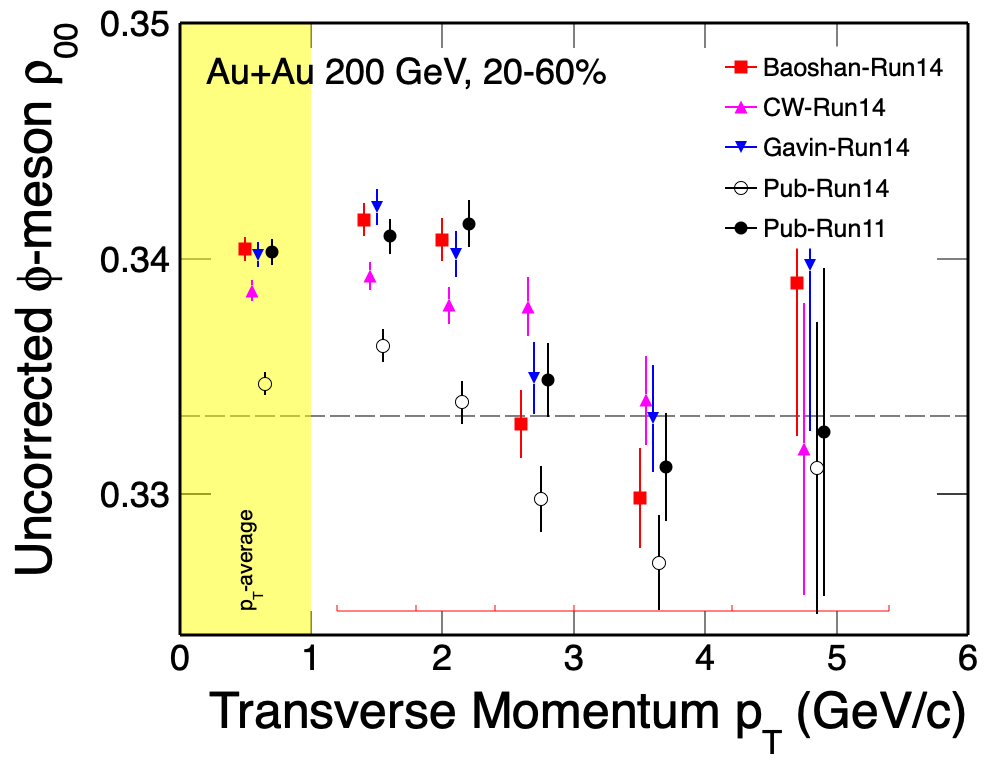
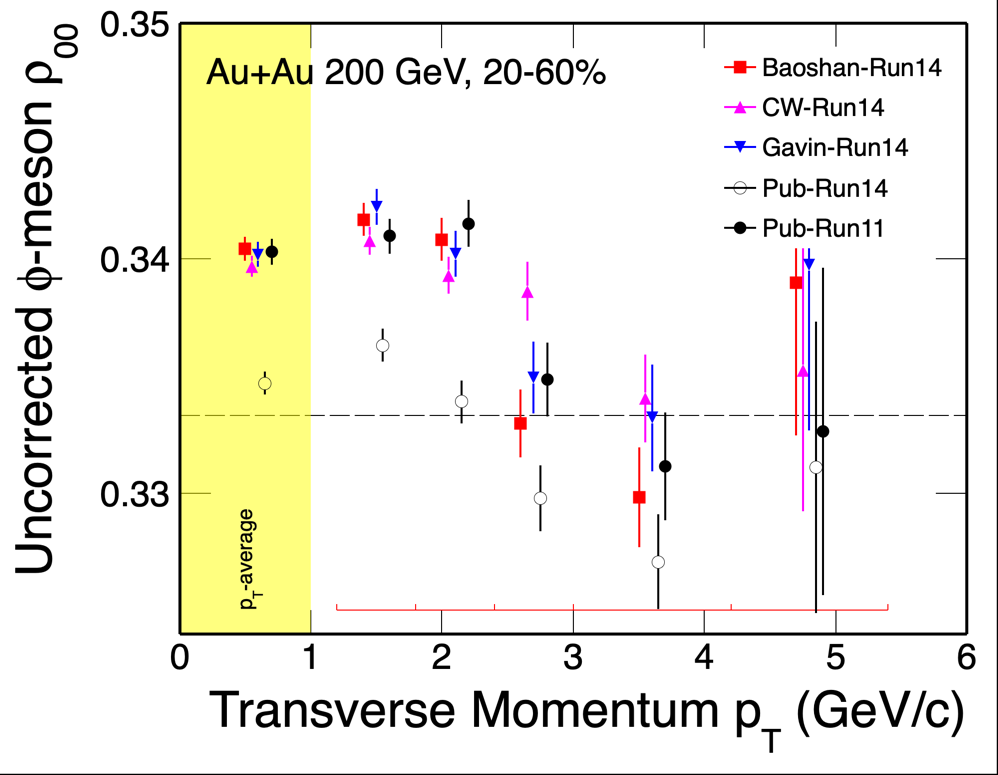
update CW-200 GeV with the results using the same fit ranges

diff --git a/SpinAlignment/PhiResult/makeComp.C b/SpinAlignment/PhiResult/makeComp.C
@@ -24,7 +24,8 @@ void makeComp(const Int_t iE = 0)
     }
   }
   const Double_t rho[NE][NU][NPt] = {{{0.341654, 0.340816, 0.332985, 0.329835, 0.338988, 0.340398}, // Baoshan-200GeV
-				      {0.339271, 0.338026, 0.337962, 0.333994, 0.331913, 0.33865},  // CW-200GeV
+				      //				      {0.339271, 0.338026, 0.337962, 0.333994, 0.331913, 0.33865},  // CW-200GeV
+				      {0.340737, 0.339286, 0.338601, 0.334055, 0.335251, 0.33967},  // CW-200GeV
 				      {0.342189, 0.340209, 0.334936, 0.333219, 0.339742, 0.340176}, // Gavin-200GeV
 				      {0.3363,   0.3339,   0.3298,   0.3271,   0.3311,   0.3347},   // Pub-Run14
 				      //				      {0.336237, 0.333866, 0.329742, 0.327062, 0.331082, 0.3347},   // Pub-Run14
@@ -38,7 +39,8 @@ void makeComp(const Int_t iE = 0)
   };
   
   const Double_t rho_e[NE][NU][NPt] = {{{0.000695697, 0.000910792, 0.00142713, 0.00211389, 0.00652381, 0.000513498}, // Baoshan-200GeV
-					{0.000595797, 0.000793582, 0.00125364, 0.00189136, 0.00618794, 0.00044},     // CW-200GeV
+					//					{0.000595797, 0.000793582, 0.00125364, 0.00189136, 0.00618794, 0.00044},     // CW-200GeV
+					{0.000591527, 0.000783714, 0.00124157, 0.00186741, 0.00602742, 0.00042839},  // CW-200GeV
 					{0.000754189, 0.000979554, 0.00153717, 0.00227283, 0.00705258, 0.000539},    // Gavin-200GeV
 					{0.0007,      0.0009,      0.0014,     0.0020,     0.0062,     0.0005},      // Pub-Run14-200GeV
 					//					{0.000721649, 0.000927835, 0.0014433,  0.00206186, 0.00628866, 0.0005},      // Pub-Run14-200GeV
